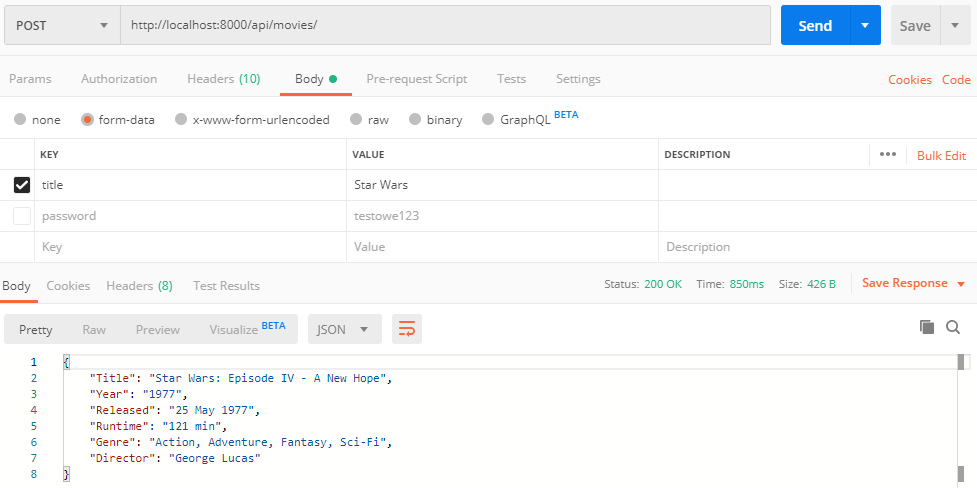
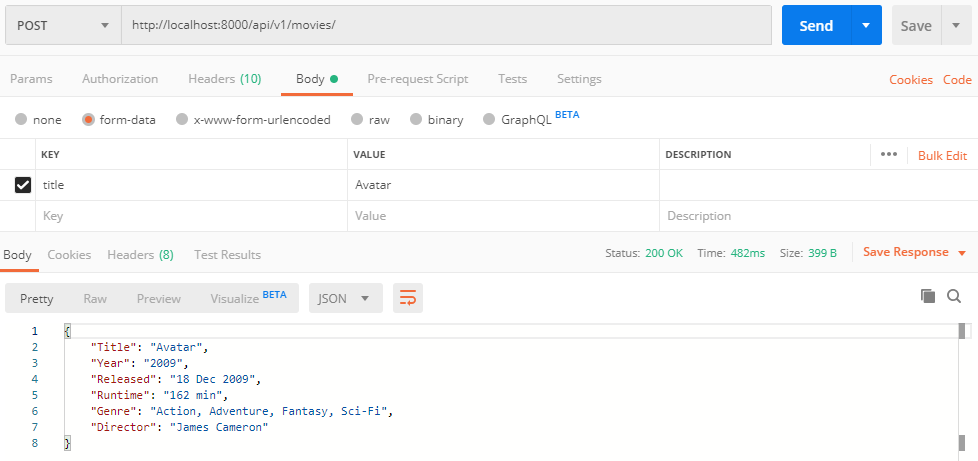
api v1

diff --git a/api/urls.py b/api/urls.py
@@ -5,7 +5,7 @@ from api import views
 router = routers.DefaultRouter()
 router.register('movies', views.MoviesViewSet)
 router.register('reviews', views.ReviewViewSet)
-router.register('favorite', views.FavoriteViewSet)
+router.register('favorites', views.FavoriteViewSet)
 router.register('users', views.UserViewSet)
 
 urlpatterns = [

diff --git a/movies/urls.py b/movies/urls.py
@@ -6,6 +6,6 @@ from rest_framework.authtoken import views
 
 urlpatterns = [
     path('admin/', admin.site.urls),
-    path('api/', include("api.urls")),
-    path('auth/', views.obtain_auth_token),
+    path('api/v1/', include("api.urls")),
+    path('api/v1/auth/', views.obtain_auth_token),
 ]

diff --git a/api/views.py b/api/views.py
@@ -54,6 +54,5 @@ class ReviewViewSet(viewsets.ModelViewSet):
 class FavoriteViewSet(viewsets.ModelViewSet):
     queryset = Favorite.objects.all()
     serializer_class = FavoriteSerializer
-    filter_fields = ('Author')
 
 
